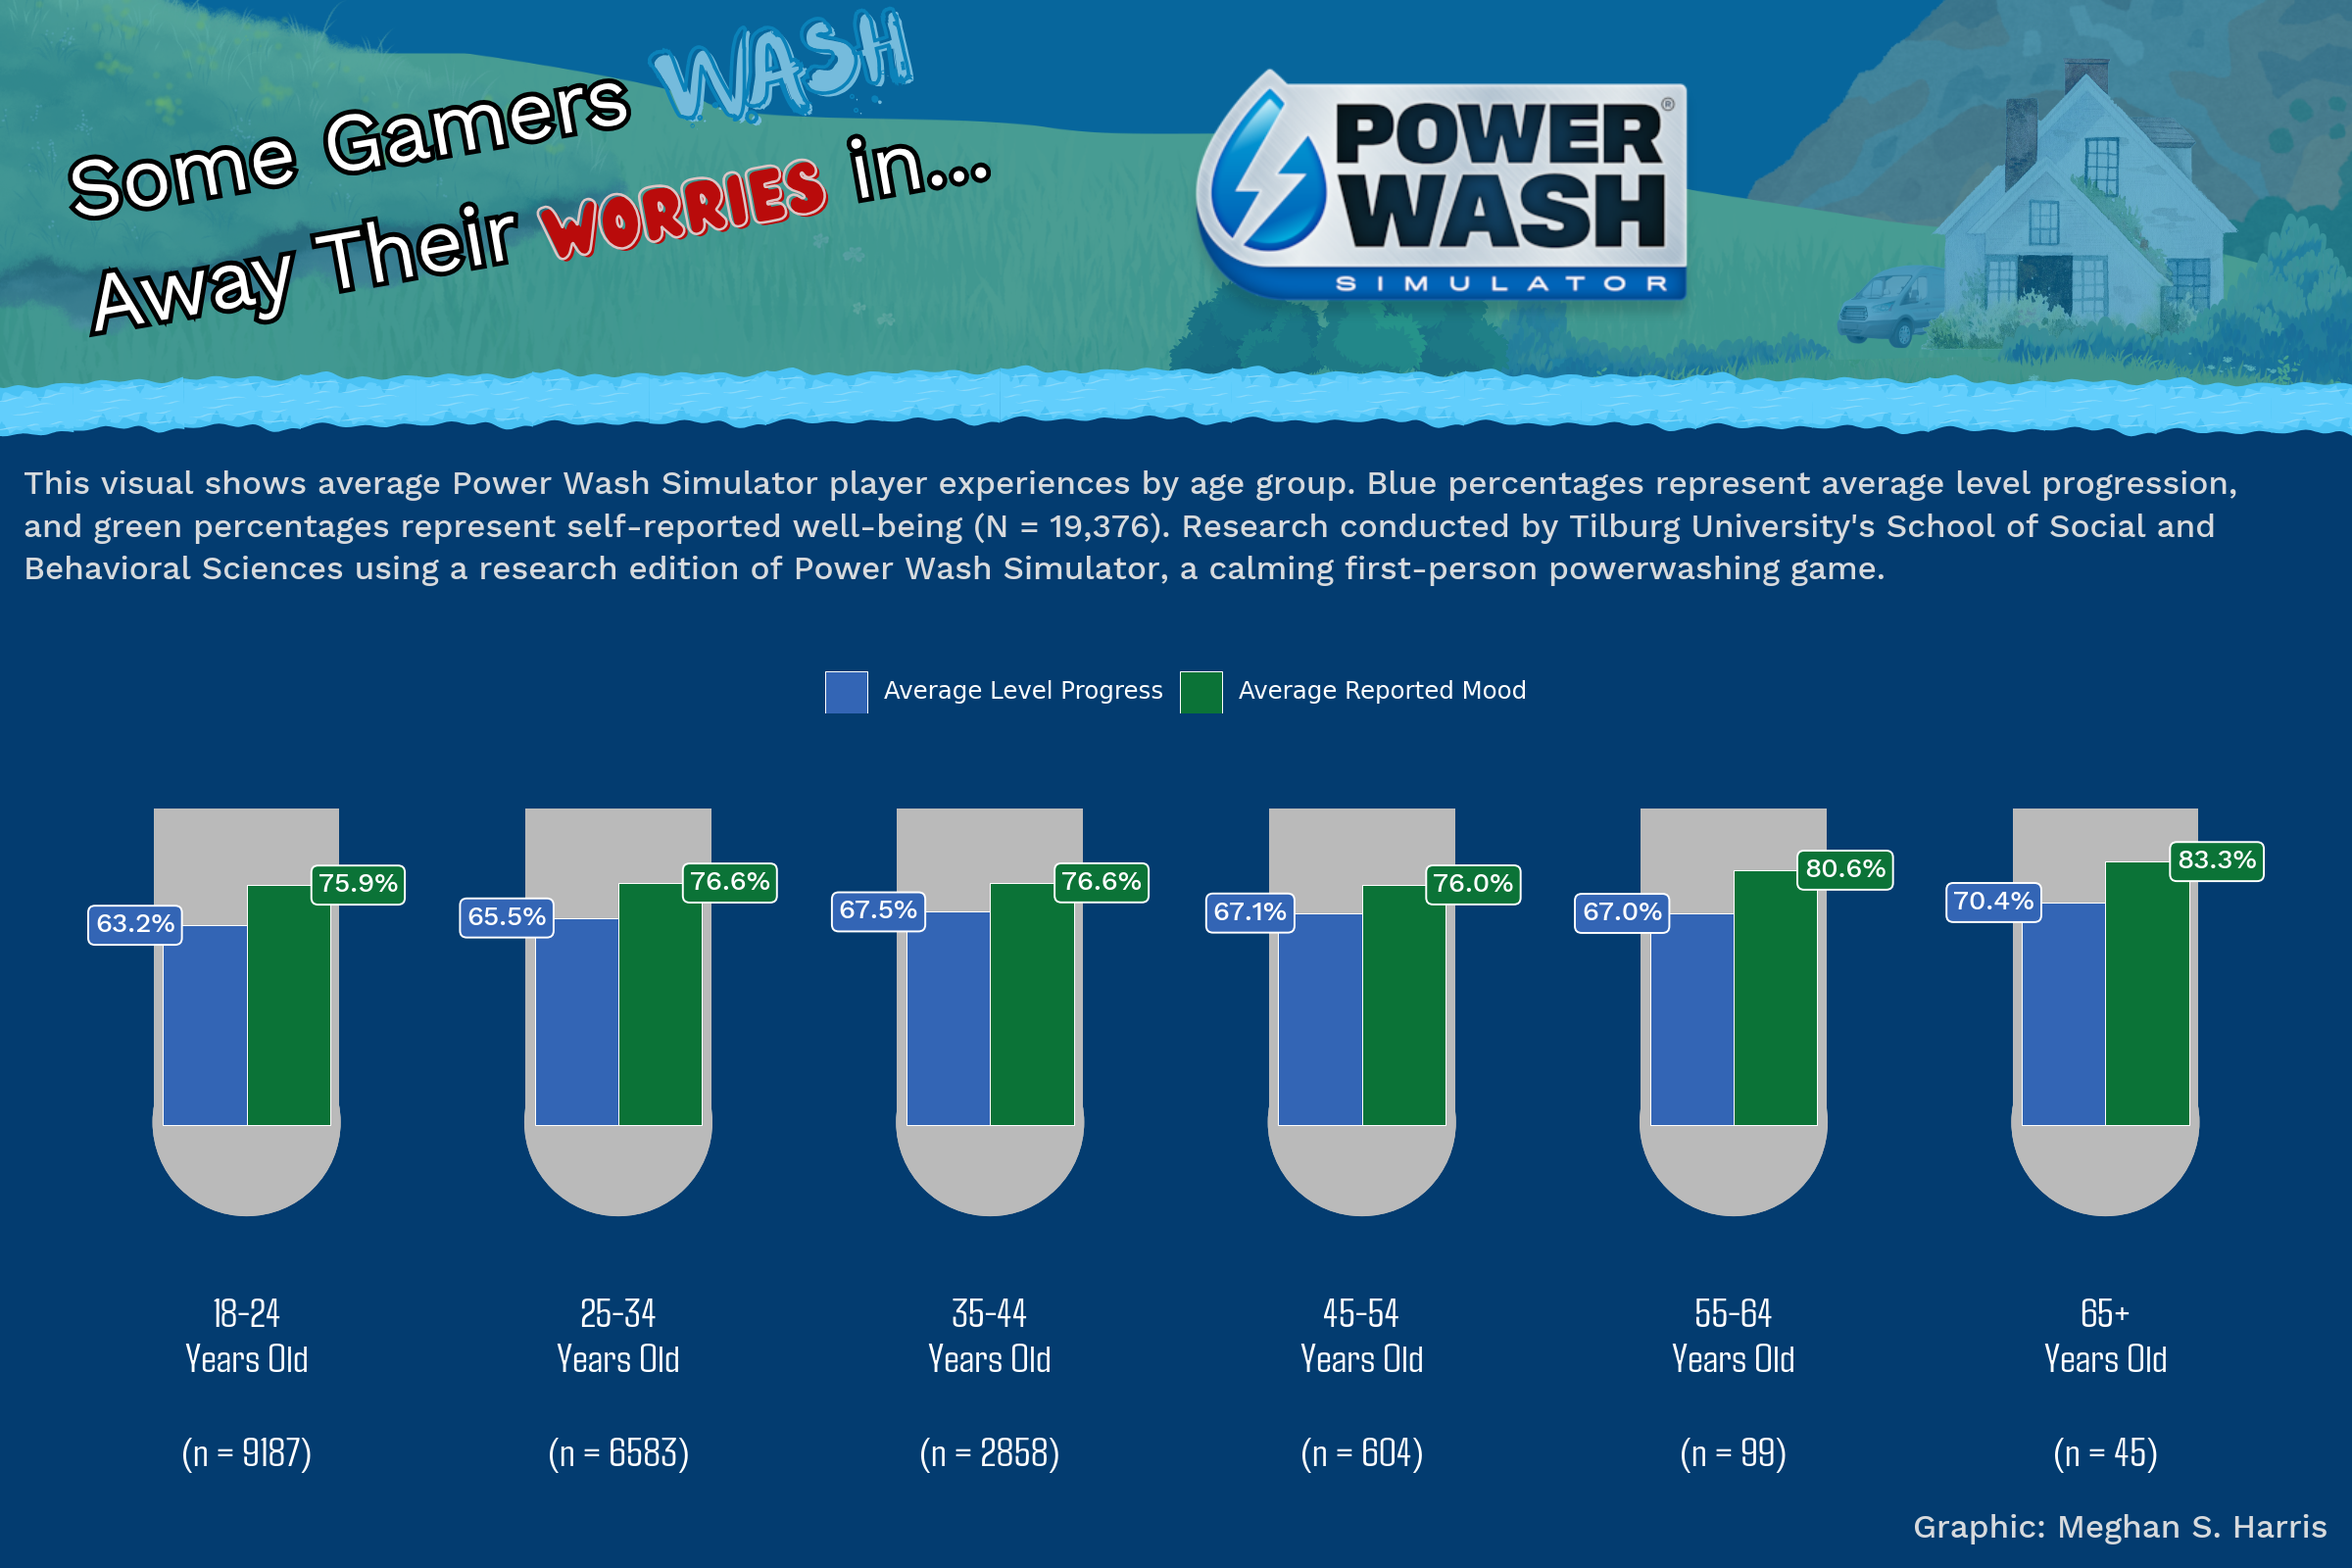
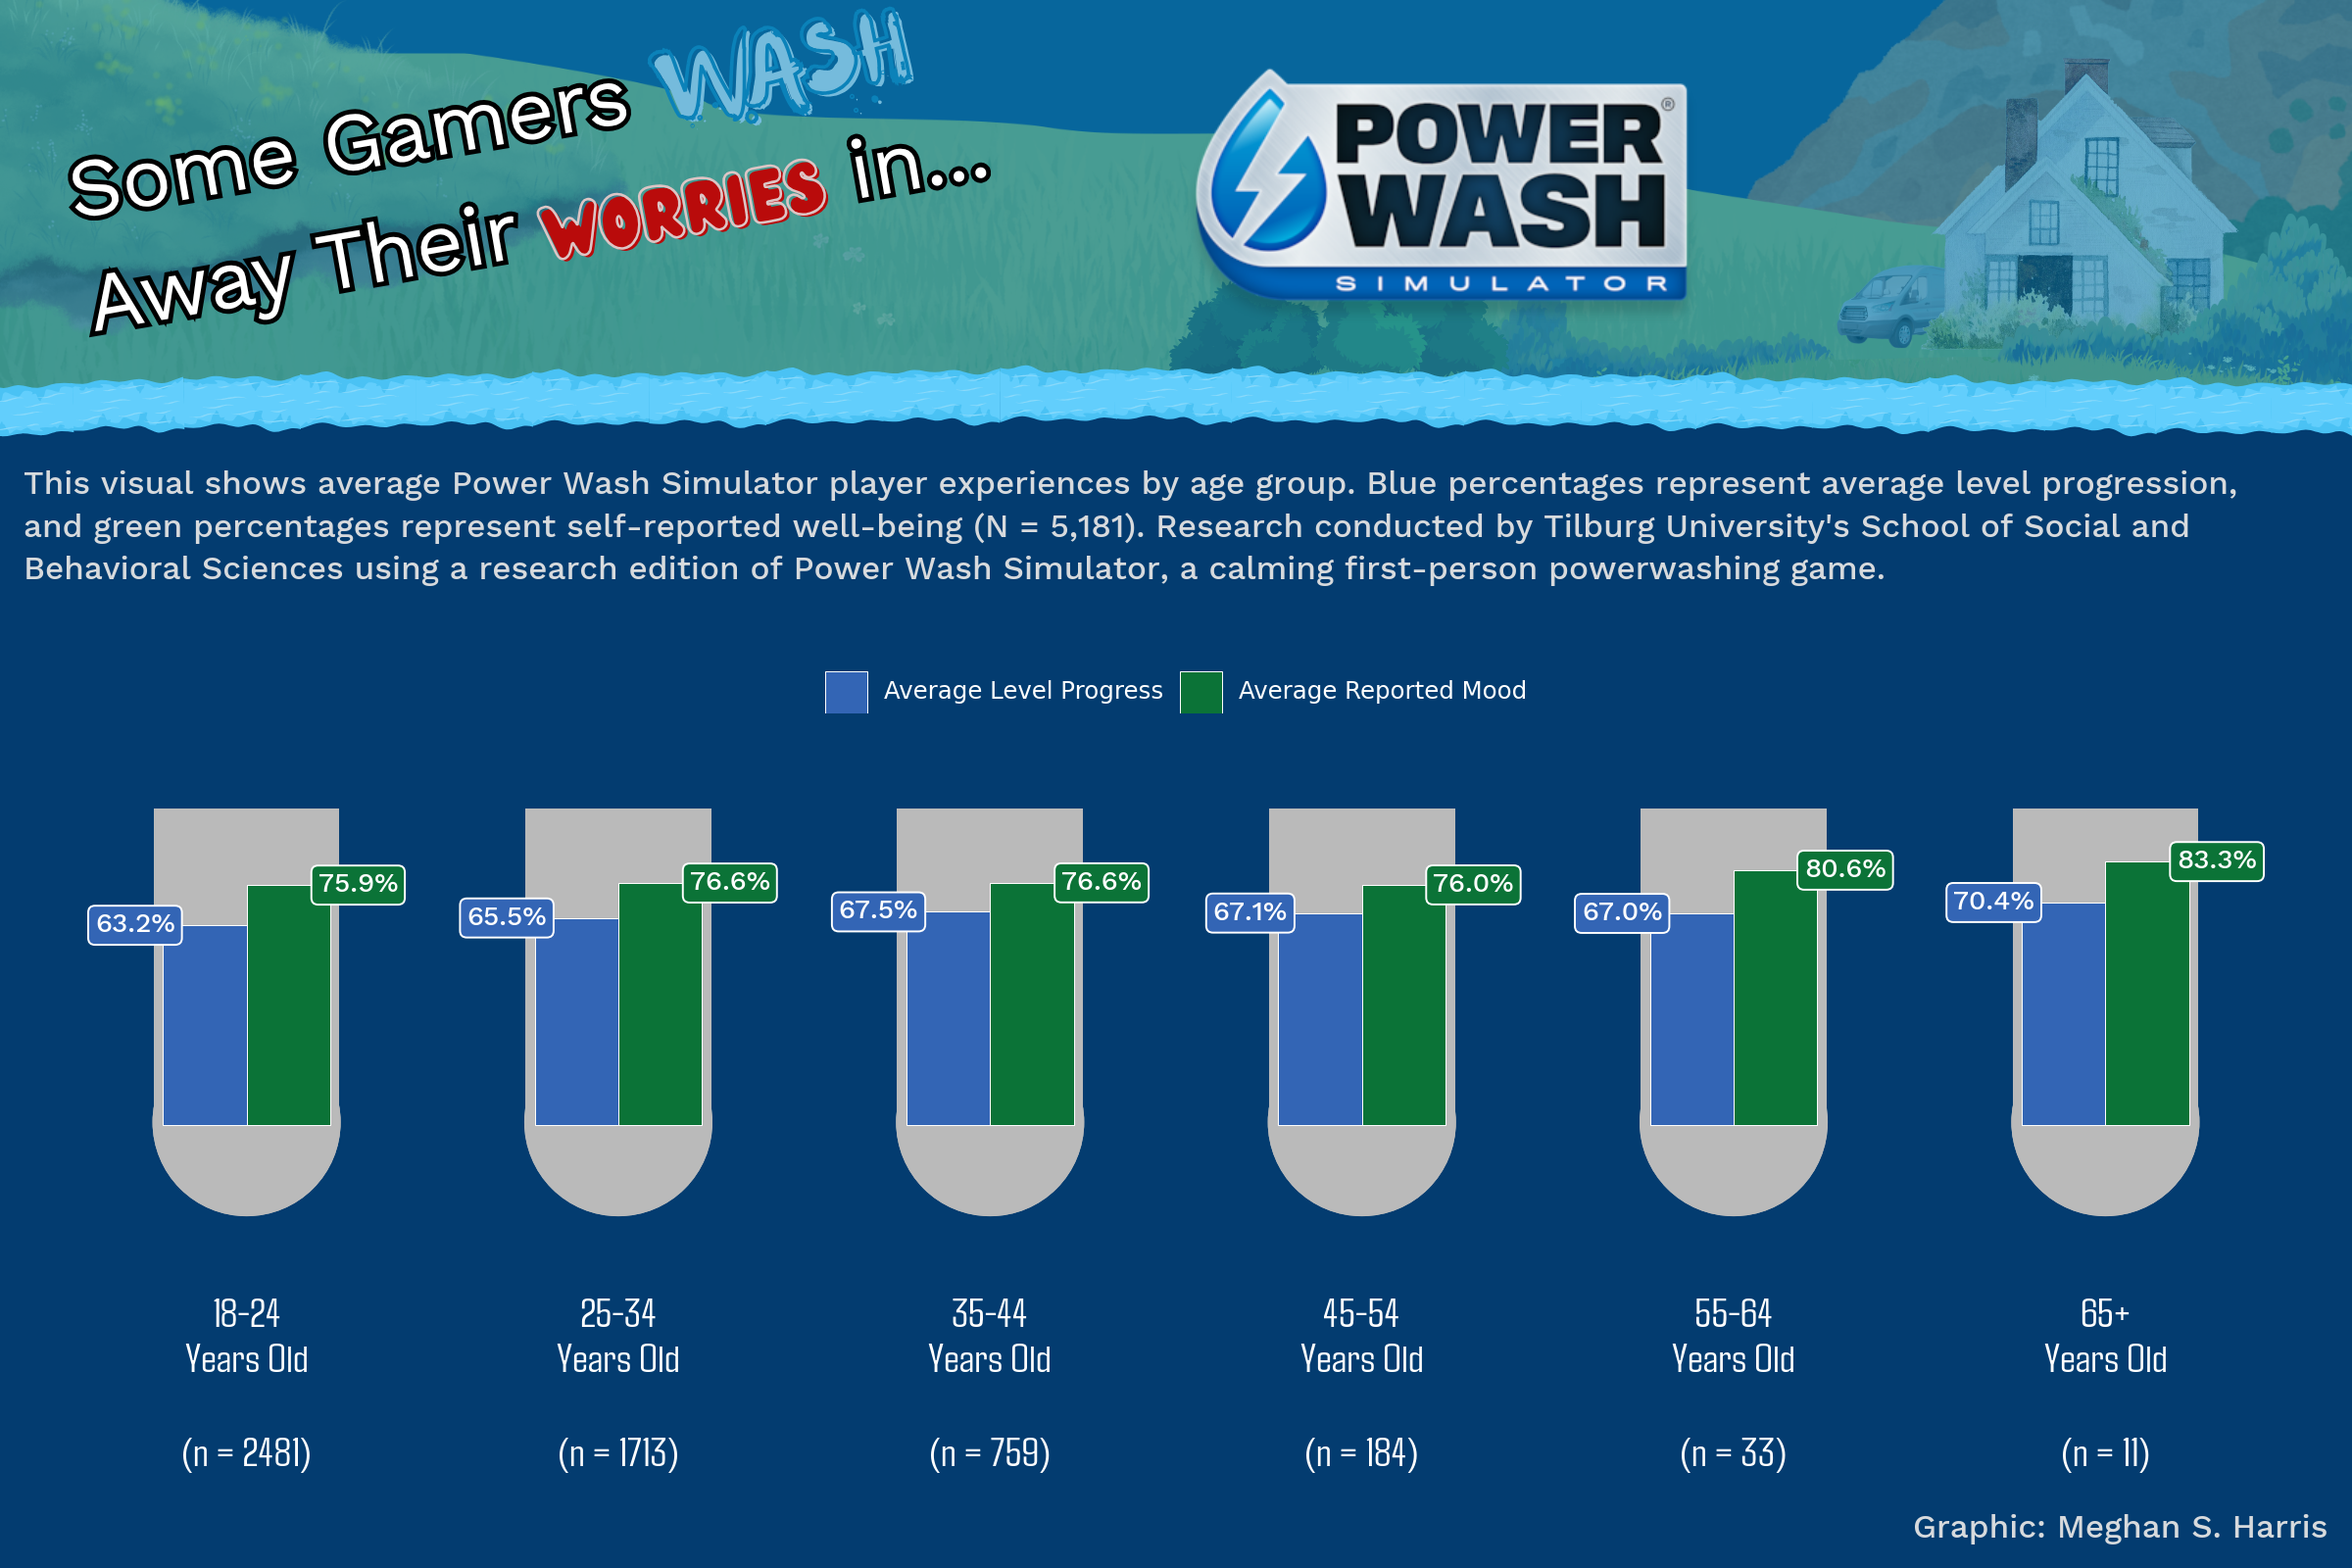
N fix

diff --git a/scripts/process.py b/scripts/process.py
@@ -107,9 +107,9 @@ df_demo_moods = (
     .group_by(["age_group", "age_group_order"])
     # Calculate the average mood and level progression scores by age groups
     .agg([
-    pl.len().alias("n"),
-    (pl.mean("response")/1000).alias("avg_mood"),
-    pl.mean("LevelProgressionAmount").alias("avg_prog")
+        pl.n_unique("pid").alias("n"),
+        (pl.mean("response")/1000).alias("avg_mood"),
+        pl.mean("LevelProgressionAmount").alias("avg_prog")
     ])
     .sort("age_group_order")
 )
@@ -166,7 +166,7 @@ fm._load_fontmanager(try_read_cache=False)
 #%% Plot Creation-----------------------------------------------------------
 background_color = "#033c70"
 dodge_text = pn.position_dodge(width = 1.2)
-description_text = "This visual shows average Power Wash Simulator player experiences by age group. Blue percentages represent average level progression,\nand green percentages represent self-reported well-being (N = 19,376). Research conducted by Tilburg University's School of Social and\nBehavioral Sciences using a research edition of Power Wash Simulator, a calming first-person powerwashing game."
+description_text = "This visual shows average Power Wash Simulator player experiences by age group. Blue percentages represent average level progression,\nand green percentages represent self-reported well-being (N = 5,181). Research conducted by Tilburg University's School of Social and\nBehavioral Sciences using a research edition of Power Wash Simulator, a calming first-person powerwashing game."
 pn.options.figure_size = (12, 8)
 
 plt_top = (
